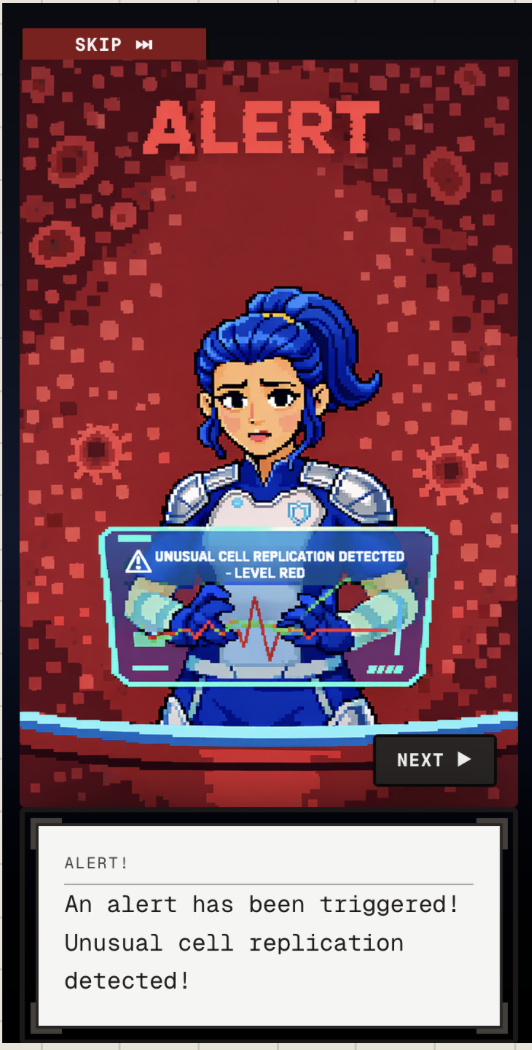
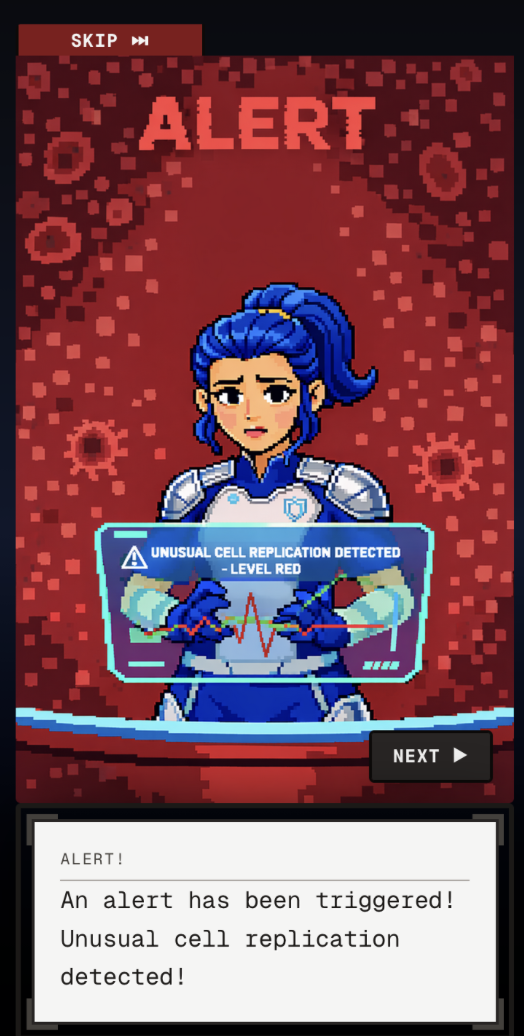
image change

Changed region(s): [[0.0, 0.0, 1.0, 1.0], [0.2443, 0.3707, 0.3053, 0.4324], [0.2443, 0.3089, 0.2748, 0.3398]]

diff --git a/components/sections/project4.tsx b/components/sections/project4.tsx
@@ -36,7 +36,7 @@ export default function Project4()
                     className="flex items-center justify-center"
                 >
                     <div className="flex h-150 w-225 mt-8">
-                        <ImageCarouselUploader images={["/game-story.jpeg", "/game-tasks.jpeg", "/game-feedback.jpeg"]}
+                        <ImageCarouselUploader images={["/game-story.png", "/game-tasks.jpeg", "/game-feedback.jpeg"]}
                         captions={[
                         "Preview of the story",
                         "Example of tasks that users would have to complete before attempting the feedback form",
